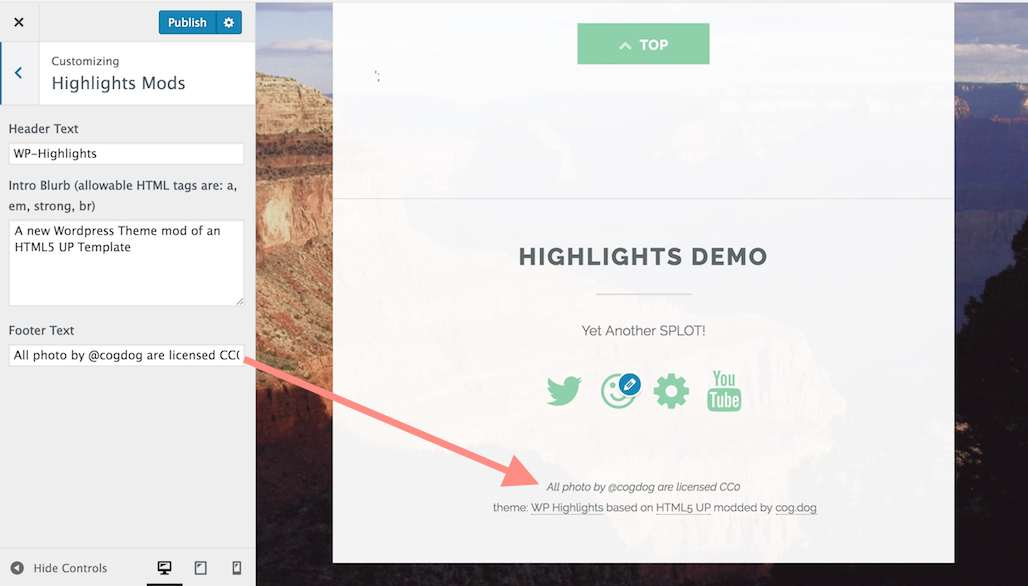
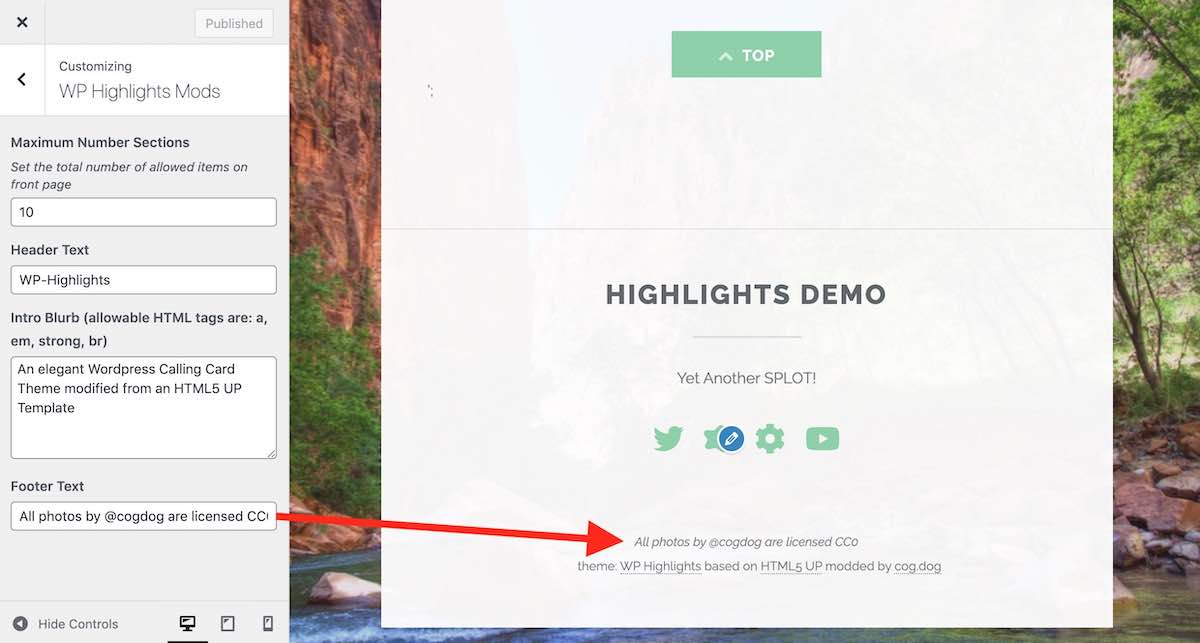
Documentation Updates
Always be documenting! Changes for updates, Font Awesome 5 usage, and newer screenshots for customizer fields

diff --git a/README.md b/README.md
@@ -14,11 +14,13 @@ A configurable Wordpress Theme version of [HTML5up Highlights Theme](https://htm
 
 You can see a demo version at http://lab.cogdogblog.com/highlights/
 
-For simple content, this can be a one page site, but use of the Wordpress `more` tag allows for longer content on a single page template, while what is above the tag appears on the home page of the site. 
+For simple content, this can be a one page site, but use of the Wordpress `more` tag allows for longer content on a single post template. The content before the  `more` tag appears  on the home page of the site and a more button is inserted to read "the rest of the story."
+
+You also can have [standalone single pages](http://lab.cogdogblog.com/highlights/else/) available for linking into.
 
 The top/splash screen is configured in the Wordpress Customizer. The backdrop image is managed by the **Header Background** controls in the Customizer, which means you have an option of loading several images that can be set to appear at random on page load.
 
-Subsequent sections as you scroll down (or use the automatic generated menu) are managed as separate posts. If the post has a featured image, on a wide screen the background image will change to it. As the page is scrolled farther, these images continue to change.
+Subsequent sections as you scroll down (or use the automatic generated menu) are managed as separate WordPress Posts. If the post has a featured image, on a wide screen the background image will change to it. As the page is scrolled farther, these images continue to change.
 
 Posts without featured images use the default theme header image in the background.
 
@@ -27,7 +29,7 @@ Posts without featured images use the default theme header image in the backgrou
 
 Each front section provides bottom arrow navigation to the next section as well as an `edit this` link for logged in users so they can directly edit the content.
 
-The bottom footer can be customized with a social media icon menu and a custom footer menu text.
+The bottom footer can be customized with a social media icon menu using [Font Awesome 5 icons with my other plugin](https://github.com/cogdog/font-awesome-5-menus) and a custom footer menu text.
 
 Highlights works best for smaller amounts of content in each section, it's meant for high level summaries, and you can use hypertext links to expand to other sites. But still, some people want a lot of content in this site, so a features was added to mark the opening bits of a post to appear on the front, with a link to see expanded content in a single page ([see below for more](#splitting-content-into-see-more)).
 
@@ -70,8 +72,6 @@ As of WordPress version 5.5 themes uploaded as .ZIP files can now be updated the
 
 If you have ftp/sftp access to your site (or this can be done in a cpanel file manager), simply upload the new theme files to the `wp-content/themes` directory that includes the older version theme. 
 
-For those that lack direct file upload access or maybe that idea sends shivers down the spine, upload and activate the [Easy Theme and Plugin Upgrades](https://wordpress.org/plugins/easy-theme-and-plugin-upgrades/) plugin -- this will allow you to upload a newer version of a theme as a ZIP archive, the same way you add a theme by uploading.
-
 
 ## Customizing with the Customizer
 
@@ -100,7 +100,7 @@ With the **Header image** controller you can upload more than one image, and use
 
 ### Highlights Mod Content
 
-Other parts of the top of the home page and and the footer are also configured in the Customizer. Change the title and the blurb content (which can include HTML):
+Other parts of the top of the home page and and the footer are also configured in the Customizer. To include more items on the front, just bump the number listed for Maximum Number of sections (this defines how many "posts" are listed). Change the title and the blurb content (which can include HTML):
 
 ![](images/customize-highlights-mods-top.jpg "Top Section in the Customizer")
 
@@ -159,9 +159,9 @@ The content for the blocks are managed as Wordpress Posts.  For each block you w
 
 ![](images/highlights-post-edit.jpg "Sidebar edits")
 
-The order of the sections is controlled via the post sidebar **Post Attributes** option for... **Order**, lower numbers are displayed higher in the site.
+The order of the sections is controlled via the post sidebar **Post Attributes** option for... **Section Order**, lower numbers are displayed higher in the site.
 
-The site now accommodates up to 10 sections.
+By default a site  accommodates up to 10 sections, but this maximum number can be changed in the Customizer.
 
 The Dashboard Posts view will list your sections in the order specified. To change the order quickly, hover a title and use the **Quick Edit** link to change the value of the order attribute.
 
@@ -205,16 +205,15 @@ There won't be a great deal of content on a typical site, and to cover a case of
 
 ![](images/room-404.jpg "404 error page")
 
-Try it now!
+Try finding room 404!
 
 http://lab.cogdogblog.com/highlights/whereami
 
 
 ## Suggested Plugins
 
-* [Font Awesome 4 Menus](https://wordpress.org/plugins/font-awesome-4-menus/) used to add the  icons to the social media links in the footer
-* [Fluid Video Embeds](https://wordpress.org/plugins/fluid-video-embeds/) will make sure your auto embedded videos (and other content wordpress can embed by URL) are responsive sized to fill the column width
-* [Easy Theme and Plugin Upgrades](https://wordpress.org/plugins/easy-theme-and-plugin-upgrades/) allows you yo update the theme by uploading the zip file again as a new server (because wordpress does not provide this capability)
+* [Font Awesome 5 icons with my other plugin](https://github.com/cogdog/font-awesome-5-menus) used to add the  icons to the social media links in the footer
+* [Fluid Video Embeds](https://wordpress.org/plugins/fluid-video-embeds/) will make sure your auto embedded videos (and other content wordpress can embed by URL) are responsively sized to fill the column width (if your content column seems to shimmy around on a small screen it's likely a video that is too wide to fit.
 * [JetPack](https://wordpress.org/plugins/jetpack/) can add a number of capabilities, such as adding a contact form or a variety of other image galleries (try Mosaic). If you do [create a contact form](https://jetpack.com/support/contact-form/), make sure you also add and activate [Akismet](http://akismet.com/) because *you will get spam*
 * [Regenerate Thumbnails](https://wordpress.org/plugins/regenerate-thumbnails/) If you change to this theme from another one, you should run this plug to re-generate previously uploaded images in the specific sizes used by the theme.
 
